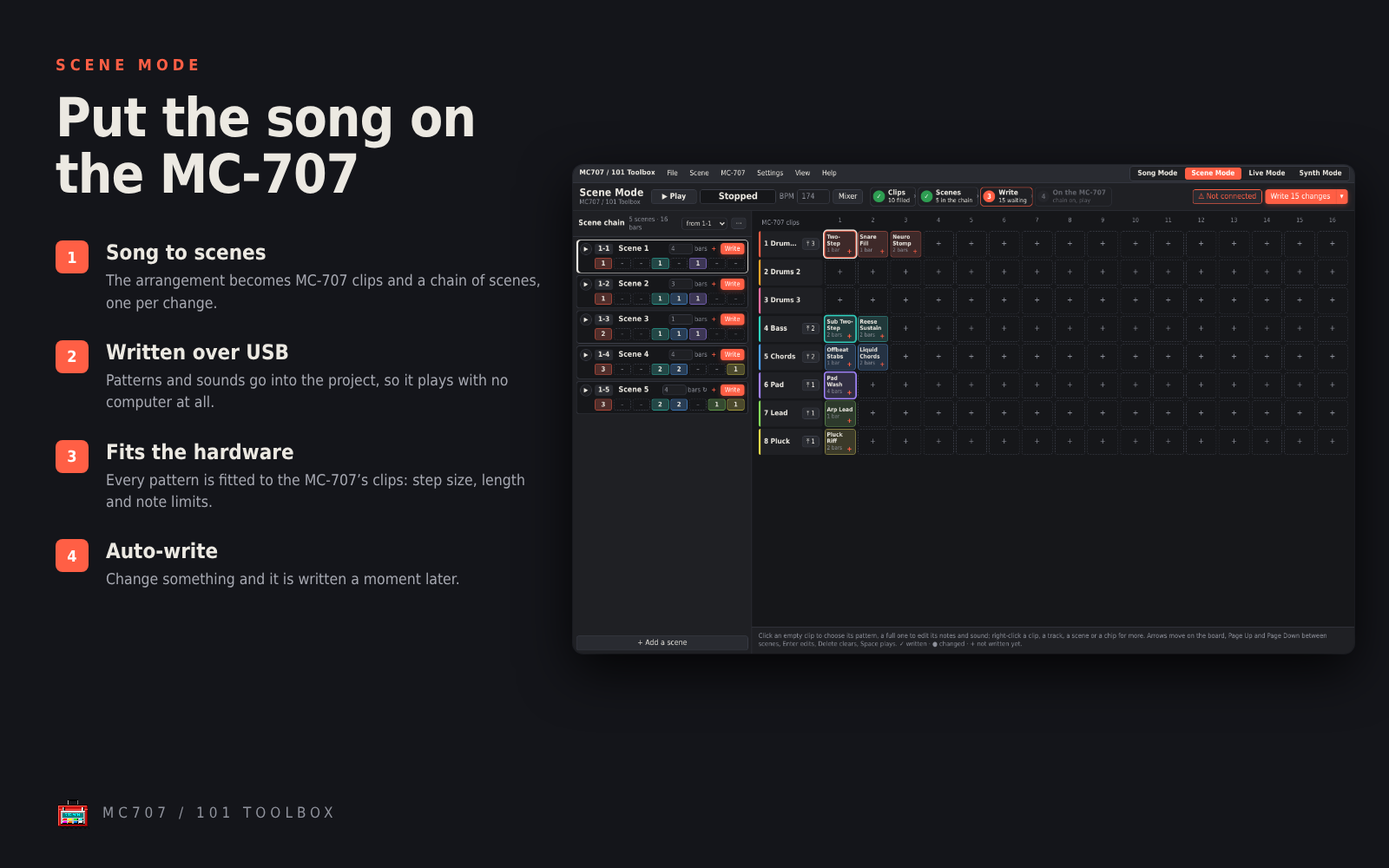
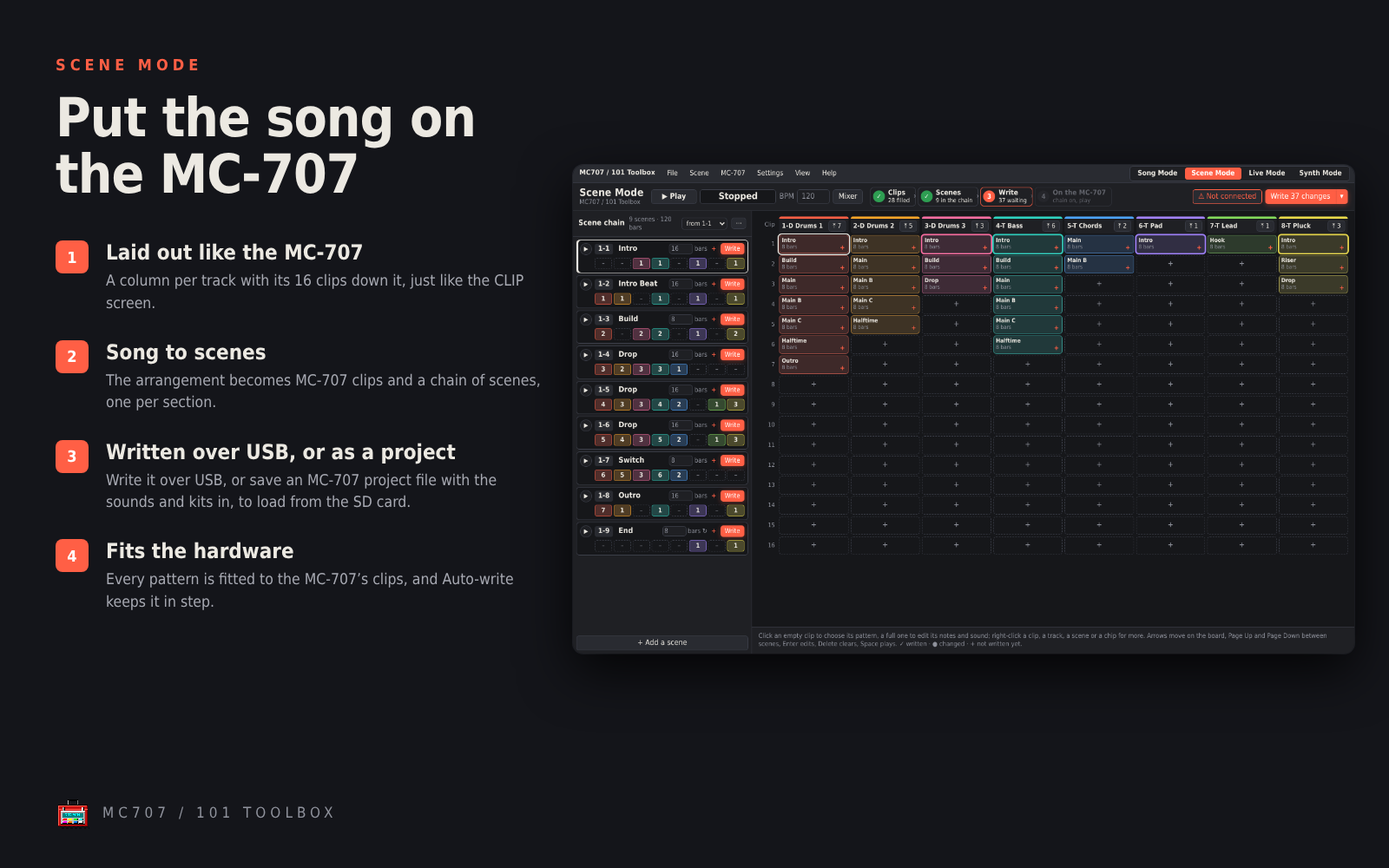
README and pictures for 1.8.6, and a promo picture
The feature cards show a composed song, Scene Mode's MC-707-style board and a Composed Live
set; their text and the README cover Compose it now, project files, Composed sets, the new moves,
Loop rec and the timing. scripts/feature-cards.mjs also makes docs/features/promo.png.

Claude-Session: https://claude.ai/code/session_013JHr4DUtWBdvd7qggkPUu7

diff --git a/README.md b/README.md
@@ -12,19 +12,19 @@ Write songs, put them on your **Roland MC-707 or MC-101**, play live sets and de
 
 ### Song Mode
 
-Arrange a whole track on a timeline and play it on the MC-707 note for note. The song wizard writes a full arrangement in one of 42 styles, from over 28,000 patterns (drums, bass, chords, pads, arps, leads, fills and builds); change any of it in the step grid or piano roll, record every track's audio, or export MIDI. [More](#song-mode-1)
+Arrange a whole track on a timeline and play it on the MC-707 note for note. The song wizard composes a whole song in one of 42 styles with **Compose it now**, or builds one from over 28,000 patterns (drums, bass, chords, pads, arps, leads, fills and builds); change any of it in the step grid or piano roll, record every track's audio, or export MIDI. [More](#song-mode-1)
 
 ![Song Mode](docs/features/1-song-mode.png)
 
 ### Scene Mode
 
-Turn the song into MC-707 clips and a chain of scenes and write them over USB, so the MC-707 plays it by itself with no computer. Every pattern is fitted to the MC-707's clips, and Auto-write keeps it in step as you change things. [More](#scene-mode-1)
+Turn the song into MC-707 clips and a chain of scenes on a board laid out like the MC-707's own CLIP screen, then write them over USB or save an MC-707 project file with the sounds in, so the MC-707 plays it by itself with no computer. Every pattern is fitted to the MC-707's clips, and Auto-write keeps it in step as you change things. [More](#scene-mode-1)
 
 ![Scene Mode](docs/features/2-scene-mode.png)
 
 ### Live Mode
 
-Play a looping set from 16 pads, laid out like the MC-707's: scenes, swaps, fades, builds and drops that always land on the beat, breaks (unison hits, stutters, rolls, drop-outs, gate chops and half-time) and fills for every genre, riffs you record yourself with Loop rec, with an auto-pilot when you want one. [More](#live-mode-1)
+Play a looping set from 16 pads, laid out like the MC-707's, the whole set composed for the style you pick: scenes, swaps, fades, builds and drops that always land on the beat, breaks (unison hits, stutters, rolls, drop-outs, gate chops and half-time) and fills for every genre, riffs you record yourself with Loop rec, with an auto-pilot when you want one. [More](#live-mode-1)
 
 ![Live Mode](docs/features/3-live-mode.png)
 
@@ -150,15 +150,17 @@ At its foot, **📖 Tutorials** (also in **Help**) walk through what to set on t
 | Feature                           | What it does                                                                                                                                                                                                                                                                                                                                                                                                                                                                                                                                                                                                                                                                                                                                                                                                                                                                                                                                                                                                                                                                                                                                                                                                                                                                                                                                                                                                                                                                                                                                                                                                        |
 | --------------------------------- | ------------------------------------------------------------------------------------------------------------------------------------------------------------------------------------------------------------------------------------------------------------------------------------------------------------------------------------------------------------------------------------------------------------------------------------------------------------------------------------------------------------------------------------------------------------------------------------------------------------------------------------------------------------------------------------------------------------------------------------------------------------------------------------------------------------------------------------------------------------------------------------------------------------------------------------------------------------------------------------------------------------------------------------------------------------------------------------------------------------------------------------------------------------------------------------------------------------------------------------------------------------------------------------------------------------------------------------------------------------------------------------------------------------------------------------------------------------------------------------------------------------------------------------------------------------------------------------------------------------------- |
 | **Start Jam and End Jam**         | **▶ Start Jam** opens with a few 2-bar intro loops built from the first scene, rising into the drop (Shift-click skips them). **■ End Jam** ends within 1–2 bars: a last hit, a thinned-out bar and a hit, or a short fade. Press it again to stop at once.                                                                                                                                                                                                                                                                                                                                                                                                                                                                                                                                                                                                                                                                                                                                                                                                                                                                                                                                                                                                                                                                                                                                                                                                                                                                                                                                                         |
-| **Scenes**                        | Seven loops built for playing live: Groove, Lift, Peak, Stripped, Groove B, Tool and Peak B. Each has its own mix of parts and length, and parts come and go so the loop breathes. A big jump in energy lands as a drop. Press ✎ to edit any scene: its name, length, energy, the pattern and MC-707 clip on each track (stay, pick one or **random**), and which bars each part plays.                                                                                                                                                                                                                                                                                                                                                                                                                                                                                                                                                                                                                                                                                                                                                                                                                                                                                                                                                                                                                                                                                                                                                                                                                             |
+| **Patterns**                      | **Composed** (the default) has the composer write the whole set for the style: one chord progression for every part, drums from the style's own groove, a bass locked to the kick, pads that follow every chord, hooks in the Peaks, a new beat and bass in the B scenes and a halftime Switch, with swaps moving between the composed parts. Or pick a flavour **from the pattern library** (Lively, Mixed or Classic) to play parts from the 28,000-pattern library instead.                                                                                                                                                                                                                                                                                                                                                                                                                                                                                                                                                                                                                                                                                                                                                                                                                                                                                                                                                                                                                                                                                                                                      |
+| **Scenes**                        | Seven loops built for playing live. A Composed set has Groove, Lift, Peak, Stripped, Groove B, Switch (halftime) and Peak B; a set from the pattern library has Groove, Lift, Peak, Stripped, Groove B, Tool and Peak B. Each has its own mix of parts and length, and parts come and go so the loop breathes. A big jump in energy lands as a drop. Press ✎ to edit any scene: its name, length, energy, the pattern and MC-707 clip on each track (stay, pick one or **random**), and which bars each part plays.                                                                                                                                                                                                                                                                                                                                                                                                                                                                                                                                                                                                                                                                                                                                                                                                                                                                                                                                                                                                                                                                                                 |
 | **16 pads**                       | Laid out like the MC-707. Pads 1–7 hold the scenes and pad 8 is **Break**. The bottom row holds the Drums, Bass, Chords and Lead swaps, Fill, Stutter, Build → Drop and Next scene. Select a drum track on the MC-707 and its pads work straight away. You can also use the mouse or computer keys (`Q`–`I` top row, `A`–`K` bottom row).                                                                                                                                                                                                                                                                                                                                                                                                                                                                                                                                                                                                                                                                                                                                                                                                                                                                                                                                                                                                                                                                                                                                                                                                                                                                           |
 | **Break and Build → Drop**        | **Break** gives a quick flash (unison hits, stutter, snare roll, drop-out, a gate chop of the whole loop, or half-time), then it's straight back in on the downbeat with a crash. **Build → Drop** brings a snare build that doubles to a roll, a filter riser, a cut and a beat of silence, then the drop with an impact, over 2, 4 or 8 bars.                                                                                                                                                                                                                                                                                                                                                                                                                                                                                                                                                                                                                                                                                                                                                                                                                                                                                                                                                                                                                                                                                                                                                                                                                                                                     |
 | **Humanize**                      | Next to Swing: makes the band sound played, not just randomly wobbly. Each instrument sits in its own spot against the beat (snare a touch behind, hats on top, keys behind, a lead that floats) and drifts a little over time, the bass locks to wherever the kick landed, and the whole band breathes together. Downbeats and the backbeat lean in, hat strokes alternate hands, and the players lean into every fourth bar. Chords are strummed up and down instead of struck as a block, and at higher amounts the snare sometimes flams. Pick a feel: **Natural**, **Laid back**, **Pushed** or **Drunk** (loose and lazy, after J Dilla). Off is machine-tight, exactly as before.                                                                                                                                                                                                                                                                                                                                                                                                                                                                                                                                                                                                                                                                                                                                                                                                                                                                                                                            |
 | **Mood**                          | Next to Humanize: pick **Angry**, **Dark**, **Driving**, **Euphoric**, **Uplifting**, **Chill**, **Dreamy** or **Melancholy**, or drag the little pad (calm to intense across, dark to bright up). The set is rebuilt from patterns that feel that way inside the style: intense moods pick harder, busier, shorter parts, play them harder and nearer the top of the style's tempo range, and come in and drop hard; calm moods pick softer, sparser, longer parts, play them softer and slower, lay back and come in smoothly. Dark moods pick minor, clashing, lower parts; bright moods major, open, higher ones. While playing, the new set comes in over one bar from the next bar line: intense moods roll the snare, open the filter and slam in on a crash after an eighth of silence; calm moods let the beat fall away, close the filter and wash into it. Off (or a double-click on the pad) picks from the whole style again. The song wizard has the same Mood choice.                                                                                                                                                                                                                                                                                                                                                                                                                                                                                                                                                                                                                                |
-| **Built for the stage**           | The clock runs on its own thread, so it keeps time with the window in the background. If the computer freezes for a moment, the set carries on from where it was instead of firing the missed notes all at once; if something goes wrong inside the app, it's logged and the music carries on. If the USB cable comes out, a red banner says so while the set keeps time; plug it back in and every note is released, then the scene's clips and levels are sent again, in time. Every release is played through hours of simulated sets with thousands of random pad presses, checking that every note is released and every effect returns to rest.                                                                                                                                                                                                                                                                                                                                                                                                                                                                                                                                                                                                                                                                                                                                                                                                                                                                                                                                                               |
+| **Built for the stage**           | The clock runs on its own thread, so it keeps time with the window in the background. If the computer freezes for a moment, the set carries on from where it was instead of firing the missed notes all at once; if something goes wrong inside the app, it's logged and the music carries on. If the USB cable comes out, a red banner says so while the set keeps time; plug it back in and every note is released, then the scene's clips and levels are sent again, in time. Timing is tight with swing and Humanize on: a note never cuts the next one of the same key short, notes go out on a steady clock (no wobble from the sound card's buffer), and echoes, fill runs and rolls swing with the groove. Every release is played through hours of simulated sets with thousands of random pad presses, checking that every note is released and every effect returns to rest.                                                                                                                                                                                                                                                                                                                                                                                                                                                                                                                                                                                                                                                                                                                             |
 | **Fades**                         | When a scene changes, pads fade in and out on the MC-707's own volume (expression, CC 11), so held notes fade too, and chords fade briefly. Bass, leads, plucks and arps never fade: they come in on the downbeat and stop on the change, letting their last notes ring out. **Entry** in Settings and mapping sets how long the pads take: Smooth (1 bar), Slow (2 bars), Long (4 bars), Very long (8 bars) or Hard cut. **Live › Stop at end of phrase** lets the melody finish with the phrase, then fades the drums, chords and pads over 2 bars. Fills always end exactly on the downbeat they lead into.                                                                                                                                                                                                                                                                                                                                                                                                                                                                                                                                                                                                                                                                                                                                                                                                                                                                                                                                                                                                      |
 | **New patterns**                  | **🎲 New patterns** drops to the drums from the next bar, blends the new set's drums in, and brings in its first scene after 2–6 bars, so the music never stops.                                                                                                                                                                                                                                                                                                                                                                                                                                                                                                                                                                                                                                                                                                                                                                                                                                                                                                                                                                                                                                                                                                                                                                                                                                                                                                                                                                                                                                                    |
-| **Moves**                         | **Wash**, **Throw**, **Filter dip**, **Pump** and **Autopan** on the MC-707's own controls, and a move per scene. During builds, resonance climbs, reverb washes up and the tone parts pump; it all snaps back on the drop (untick **Epic builds** to turn that off).                                                                                                                                                                                                                                                                                                                                                                                                                                                                                                                                                                                                                                                                                                                                                                                                                                                                                                                                                                                                                                                                                                                                                                                                                                                                                                                                               |
+| **Moves**                         | **Wash**, **Throw**, **Filter dip**, **Pump** and **Autopan** on the MC-707's own controls, plus **Wobble** (the bass's filter in eighths for 2 bars), **Chop** (the chords and pads gated in 16ths for 2 bars) and **Lift** (filter and resonance rise over a bar and snap back), and a move per scene. During builds, resonance climbs, reverb washes up and the tone parts pump; it all snaps back on the drop (untick **Epic builds** to turn that off).                                                                                                                                                                                                                                                                                                                                                                                                                                                                                                                                                                                                                                                                                                                                                                                                                                                                                                                                                                                                                                                                                                                                                        |
+| **Loop rec**                      | Record 1, 2, 4 or 8 bars on a keyboard or the MC-707's keys while the set plays, with a count-in and Quantize (1/16, 1/8, triplets or Off, changeable later). ▶ Play puts the take in the set from the next bar, and it stays on its track through scene changes, auto-pilot, swaps, New patterns, the energy and a restart until **■ Back**.                                                                                                                                                                                                                                                                                                                                                                                                                                                                                                                                                                                                                                                                                                                                                                                                                                                                                                                                                                                                                                                                                                                                                                                                                                                                       |
 | **Staying in tune**               | Every tone part in a set follows one chord progression, and swaps and guest melodies only pick parts that fit it. Leads and plucks that clash with their chords, or run in triplets across a straight beat, are left out of the automatic picks, and **Chord lock** (under More moves, on by default) moves a lead or pluck note that lands on a beat against the chord to the nearest chord note. Key and **minor/major** change any time; **Try** shows keys that suit the style.                                                                                                                                                                                                                                                                                                                                                                                                                                                                                                                                                                                                                                                                                                                                                                                                                                                                                                                                                                                                                                                                                                                                 |
 | **Variation, Energy, Auto-pilot** | **Variation** sets how often the set changes by itself, up to **Extreme**. **Energy** goes from a sparse breakdown to all 8 parts. **Auto-pilot** runs the set like a DJ would, with a Chaos amount: the scenes follow an arc (groove, lift, peak, a second peak, a breakdown and back) rather than going round the list, a lift builds into its peak with a snare build and the filter riser, a filter dip or reverb throw lands now and then in a peak, about every twelve scene changes a breakdown brings in fresh patterns (never on a set you edited), and with Chaos at half or more the key sometimes lifts a tone out of a breakdown, going back home with the fresh patterns. **🔒 Lock loop** holds exactly what's playing; **＋ Save as scene** keeps it.                                                                                                                                                                                                                                                                                                                                                                                                                                                                                                                                                                                                                                                                                                                                                                                                                                               |
 | **Acid**                          | 303-style lines with accents, slides and octave jumps for techno, acid techno, house, trance, electro, breakbeat and drum and bass. Mark a clip as **Acid** and Live Mode plays them on it.                                                                                                                                                                                                                                                                                                                                                                                                                                                                                                                                                                                                                                                                                                                                                                                                                                                                                                                                                                                                                                                                                                                                                                                                                                                                                                                                                                                                                         |
@@ -184,7 +186,7 @@ Arrange a song the way the MC-707 keeps one, then write it there so the MC-707 p
 | **Play**                        | Plays the chain here from the selected scene, on the MC-707 over MIDI and the preview sound, the way the scene chain will; the playing scene and its clips light up. **Space** plays and stops. **⚠ Not connected** shows when the MC-707 isn't (click it to connect).                                                                                                                                                                                                                                                                                                                                                                                                                                                                                                                                                                                                                                                                                                                                                                                                                                                                                                                                                                                                                                                |
 | **On the MC-707**               | Step 4 (or **? How it works**) lists what to do there: system 1.71 or later, Call Scene TYPE2, CHAIN on in the SCENE CHAIN screen (MUTE, then SHIFT + a step button; the app can't switch it), call up the first scene and play, save the project.                                                                                                                                                                                                                                                                                                                                                                                                                                                                                                                                                                                                                                                                                                                                                                                                                                                                                                                                                                                                                                                                    |
 | **From the song / to the song** | Make clips and scenes from the Song Mode arrangement (each track's patterns become its clips; a scene wherever they change, named after the markers), or lay the scenes out in Song Mode with a marker per scene. Songs from the first Scene Mode open in the new layout.                                                                                                                                                                                                                                                                                                                                                                                                                                                                                                                                                                                                                                                                                                                                                                                                                                                                                                                                                                                                                                             |
-| **Keys**                        | Arrows move on the board, Page Up and Page Down between scenes, Enter edits, Delete clears a clip, Ctrl+C and Ctrl+V copy and paste clips, Ctrl+Z undoes, Space plays.                                                                                                                                                                                                                                                                                                                                                                                                                                                                                                                                                                                                                                                                                                                                                                                                                                                                                                                                                                                                                                                                                                                                                |
+| **Keys**                        | Arrows move on the board (up and down through a track's clips, left and right between tracks), Page Up and Page Down between scenes, Enter edits, Delete clears a clip, Ctrl+C and Ctrl+V copy and paste clips, Ctrl+Z undoes, Space plays.                                                                                                                                                                                                                                                                                                                                                                                                                                                                                                                                                                                                                                                                                                                                                                                                                                                                                                                                                                                                                                                                           |
 
 ## Synth Mode
 
